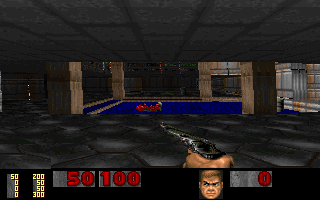
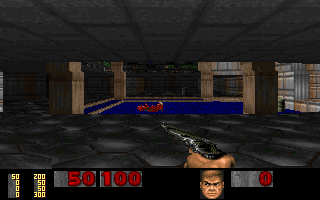
точечные фиксы рендера и палитры

diff --git a/doom/apply_port_patches.py b/doom/apply_port_patches.py
@@ -220,6 +220,12 @@ def fix_r_data(t: str) -> str:
     t = sub_n(t, r"realpatch = W_CacheLumpNum \(patch->patch, PU_CACHE\);",
               "realpatch = RVM_CachePatchNum (patch->patch, PU_CACHE);", 2)
     t = sub_n(t, r"x1 = patch->originx;", r"x1 = patch->originx;", 2)  # маркер
+
+    # R_GetColumn (аудит, critical): смещения colofs посчитаны относительно
+    # КОНВЕРТИРОВАННОГО патча (hdr = 4+width слов), а применялись к сырому
+    # лампу -> dc_source стен уезжал на hdr слов (одиночно-патчевые текстуры).
+    t = sub_n(t, r"return \(byte \*\)W_CacheLumpNum\(lump,PU_CACHE\)\+ofs;",
+              "return (byte *)RVM_CachePatchNum(lump,PU_CACHE)+ofs;")
     return t
 
 
@@ -242,7 +248,12 @@ def blanket_patch_cache(t: str, min_n: int) -> str:
 
 
 def fix_st_stuff(t: str) -> str:
-    return blanket_patch_cache(t, 2)
+    t = blanket_patch_cache(t, 2)
+    # PLAYPAL — сырые RGB-байты, НЕ патч (аудит, critical): patch-конвертер
+    # приписывал словный заголовок и сдвигал палитру на 4 слова.
+    t = sub_n(t, r"RVM_CachePatchNum \(lu_palette, PU_CACHE\)",
+              "W_CacheLumpNum (lu_palette, PU_CACHE)", 2)
+    return t
 
 
 def fix_wi_stuff(t: str) -> str:
@@ -254,7 +265,38 @@ def fix_hu_stuff(t: str) -> str:
 
 
 def fix_m_menu(t: str) -> str:
-    return blanket_patch_cache(t, 2)
+    t = blanket_patch_cache(t, 2)
+    # PLAYPAL сырой (гамма-клавиша)
+    t = sub_n(t, r'RVM_CachePatchName \(DEH_String\("PLAYPAL"\),PU_CACHE\)',
+              'W_CacheLumpName (DEH_String("PLAYPAL"),PU_CACHE)')
+    # 8cc не компилирует пре-декремент short-глобала (lvalue expected)
+    t = sub_n(t, r"if \(--skullAnimCounter <= 0\)",
+              "skullAnimCounter = skullAnimCounter - 1;\n"
+              "    if (skullAnimCounter <= 0)")
+    return t
+
+
+def fix_st_lib(t: str) -> str:
+    # STTMINUS — единственный патч статус-бара мимо конвертера (аудит)
+    t = sub_n(t,
+              r'sttminus = \(patch_t \*\) W_CacheLumpName\('
+              r'DEH_String\("STTMINUS"\), PU_STATIC\);',
+              'sttminus = RVM_CachePatchName(DEH_String("STTMINUS"), '
+              'PU_STATIC);')
+    return t
+
+
+def fix_r_segs(t: str) -> str:
+    # memcpy с множителем 2* рассчитан на 2-байтовый short: на ELVM копирует
+    # вдвое больше слов -> чтение за концом ceilingclip/floorclip и запись
+    # лишнего хвоста в openings (аудит).
+    t = sub_n(t, r"memcpy \(lastopening, ceilingclip\+start, "
+                 r"2\*\(rw_stopx-start\)\);",
+              "memcpy (lastopening, ceilingclip+start, (rw_stopx-start));")
+    t = sub_n(t, r"memcpy \(lastopening, floorclip\+start, "
+                 r"2\*\(rw_stopx-start\)\);",
+              "memcpy (lastopening, floorclip+start, (rw_stopx-start));")
+    return t
 
 
 def fix_am_map(t: str) -> str:
@@ -327,6 +369,15 @@ def fix_g_game(t: str) -> str:
         t = t.replace(old_fwd, new_fwd, 1)
     # 2) extern внутри блока = локальная переменная на 8cc
     t = hoist_extern(t, "extern char *player_names[4];")
+    # 3) финальный отчёт -timedemo: float не поддержан 8cc (молча int),
+    #    %f не поддержан libc printf (аудит) -> целочисленный fps*100
+    t = sub_n(t, r"float fps;", "int fps100;")
+    t = sub_n(t, r"fps = \(\(float\) gametic \* TICRATE\) / realtics;",
+              "fps100 = realtics ? (gametic * TICRATE * 100) / realtics : 0;")
+    t = sub_n(t, r'I_Error \("timed %i gametics in %i realtics \(%f fps\)",\s*'
+                 r'gametic, realtics, fps\);',
+              'I_Error ("timed %i gametics in %i realtics (fps*100 = %d)",\n'
+              '                 gametic, realtics, fps100);')
     return t
 
 
@@ -351,6 +402,19 @@ def hoist_extern(t: str, decl: str) -> str:
 
 
 def fix_d_net(t: str) -> str:
+    # single-player timedemo: сеть закорочена (полная net-инициализация
+    # ELVM-порту не нужна и тянет sha1/W_Checksum)
+    if "#ifdef __eir__" not in t:
+        t = sub_n(t, r"void D_ConnectNetGame\(void\)\n\{",
+                  """void D_ConnectNetGame(void)
+{
+#ifdef __eir__
+    /* RVM single-player timedemo: сеть не нужна; полная net-инициализация
+     * ELVM-порту не требуется. Минимальный путь. */
+    I_AtExit(D_QuitNetGame, true);
+    netgame = false;
+    return;
+#endif""")
     # extern-декларация ВНУТРИ блока на 8cc создаёт ЛОКАЛЬНУЮ переменную:
     # RunTic читал мусор со стека вместо advancedemo -> demo-цикл крутился
     # сам по себе (D_DoAdvanceDemo без D_AdvanceDemo). Выносим на файловый
@@ -384,6 +448,8 @@ def main() -> None:
     patch_file("g_game.c", fix_g_game)
     patch_file("p_spec.c", fix_p_spec)
     patch_file("r_bsp.c", fix_r_bsp)
+    patch_file("st_lib.c", fix_st_lib)
+    patch_file("r_segs.c", fix_r_segs)
     print("готово")
 
 
